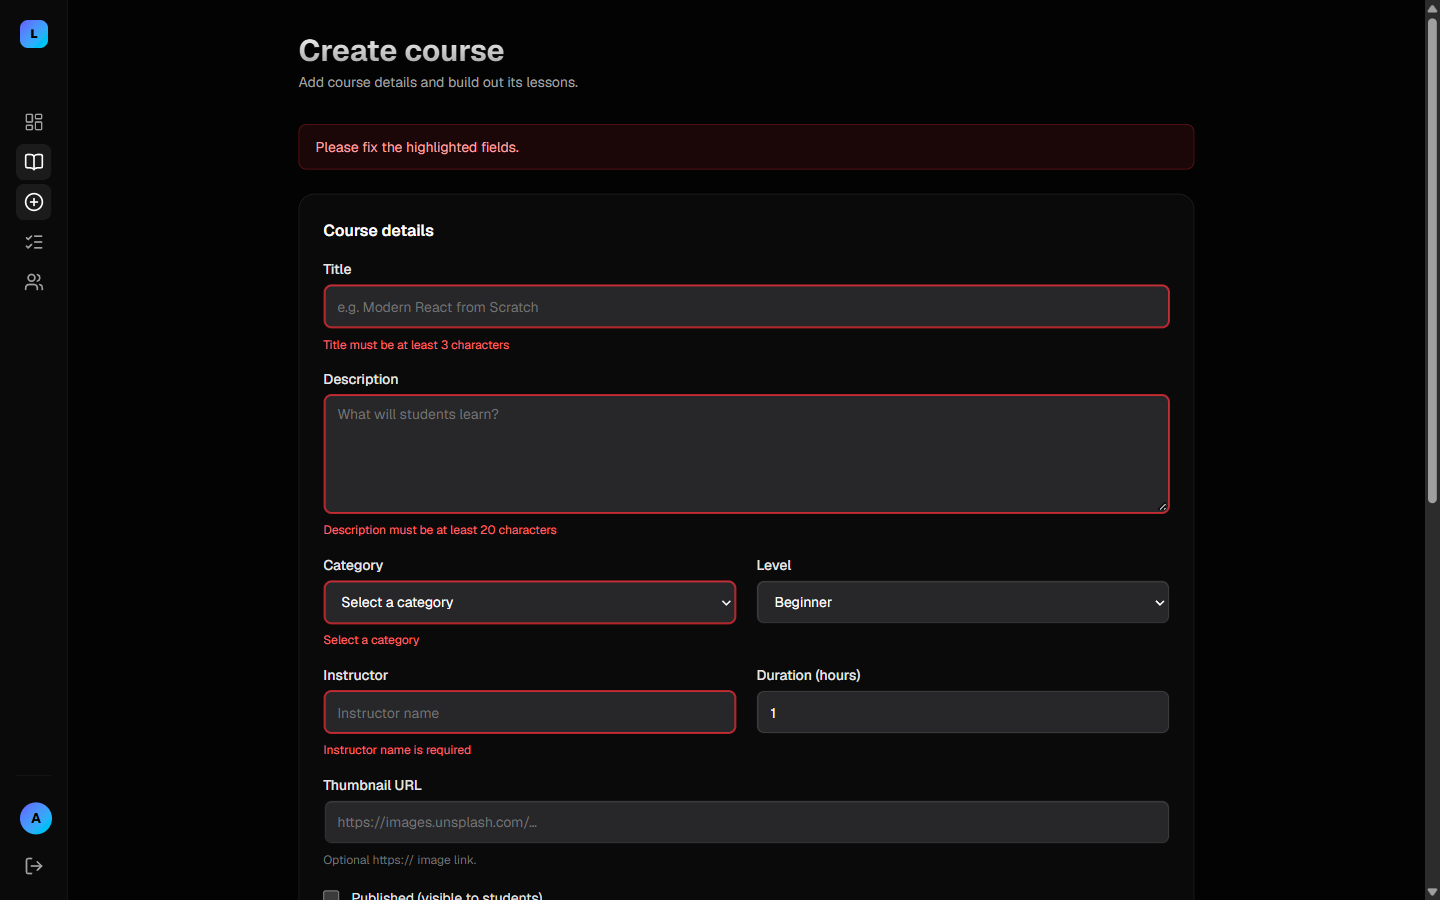
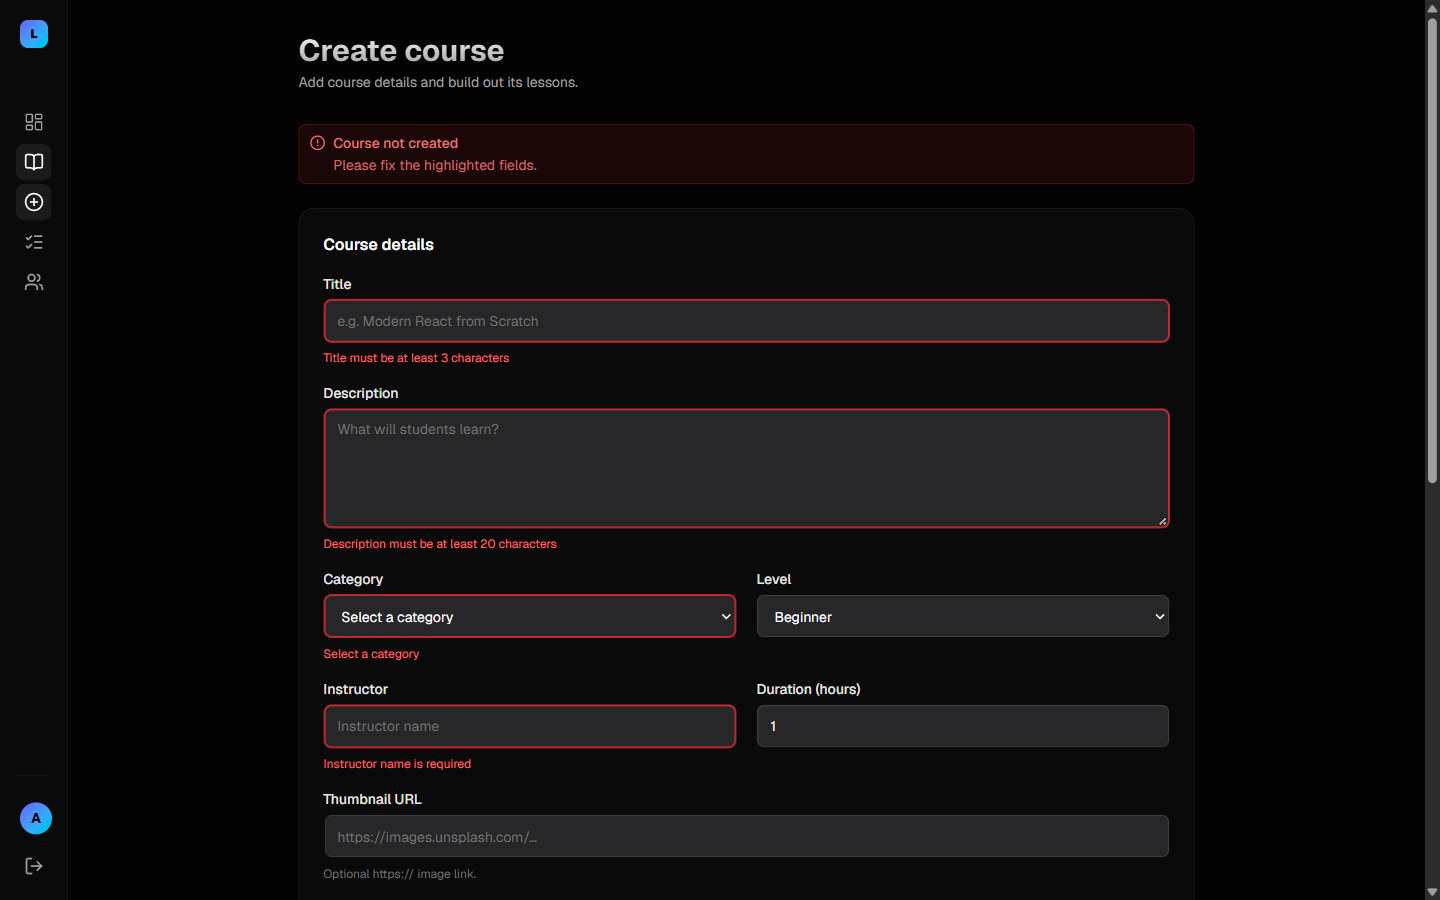
Use the shadcn/ui Alert component for error messages
- Add components/ui/alert.tsx (shadcn base-nova Alert, AlertTitle,
  AlertDescription, AlertAction) and components.json
- Add class-variance-authority, the dependency the component needs
- Add the semantic theme tokens it relies on (card, destructive, border,
  muted-foreground) to globals.css
- Replace the hand-rolled Alert with an ErrorAlert wrapper built on the
  shadcn component, with an icon and a context-specific title
- Retake the course form screenshot and add a login error screenshot

diff --git a/src/components/ui/alert.tsx b/src/components/ui/alert.tsx
@@ -1,0 +1,75 @@
+import * as React from "react"
+import { cva, type VariantProps } from "class-variance-authority"
+import { cn } from "@/lib/utils"
+
+const alertVariants = cva(
+  "group/alert relative grid w-full border-border gap-0.5 rounded-lg border px-2.5 py-2 text-left text-sm has-data-[slot=alert-action]:relative has-data-[slot=alert-action]:pr-18 has-[>svg]:grid-cols-[auto_1fr] has-[>svg]:gap-x-2 *:[svg]:row-span-2 *:[svg]:translate-y-0.5 *:[svg]:text-current *:[svg:not([class*='size-'])]:size-4",
+  {
+    variants: {
+      variant: {
+        default: "bg-card text-card-foreground",
+        destructive:
+          "bg-card text-destructive *:data-[slot=alert-description]:text-destructive/90 *:[svg]:text-current",
+      },
+    },
+    defaultVariants: {
+      variant: "default",
+    },
+  }
+)
+
+function Alert({
+  className,
+  variant,
+  ...props
+}: React.ComponentProps<"div"> & VariantProps<typeof alertVariants>) {
+  return (
+    <div
+      data-slot="alert"
+      role="alert"
+      className={cn(alertVariants({ variant }), className)}
+      {...props}
+    />
+  )
+}
+
+function AlertTitle({ className, ...props }: React.ComponentProps<"div">) {
+  return (
+    <div
+      data-slot="alert-title"
+      className={cn(
+        "font-medium group-has-[>svg]/alert:col-start-2 [&_a]:underline [&_a]:underline-offset-3 [&_a]:hover:text-foreground",
+        className
+      )}
+      {...props}
+    />
+  )
+}
+
+function AlertDescription({
+  className,
+  ...props
+}: React.ComponentProps<"div">) {
+  return (
+    <div
+      data-slot="alert-description"
+      className={cn(
+        "text-sm text-balance text-muted-foreground md:text-pretty [&_a]:underline [&_a]:underline-offset-3 [&_a]:hover:text-foreground [&_p:not(:last-child)]:mb-4",
+        className
+      )}
+      {...props}
+    />
+  )
+}
+
+function AlertAction({ className, ...props }: React.ComponentProps<"div">) {
+  return (
+    <div
+      data-slot="alert-action"
+      className={cn("absolute top-2 right-2", className)}
+      {...props}
+    />
+  )
+}
+
+export { Alert, AlertTitle, AlertDescription, AlertAction }

diff --git a/src/components/course-form.tsx b/src/components/course-form.tsx
@@ -6,7 +6,7 @@ import { useState, type FormEvent } from "react";
 import { useToast } from "@/components/toast";
 import { Button, ButtonLink } from "@/components/ui/button";
 import { Field, Input, Select, Textarea } from "@/components/ui/input";
-import { Alert, Card } from "@/components/ui/misc";
+import { ErrorAlert, Card } from "@/components/ui/misc";
 import { api, ApiClientError, type CourseDetail } from "@/lib/client";
 import { capitalize, COURSE_CATEGORIES, COURSE_LEVELS } from "@/lib/utils";
 import { courseInputSchema, fieldErrors } from "@/lib/validations";
@@ -149,7 +149,7 @@ export function CourseForm({ course }: { course?: CourseDetail }) {
 
   return (
     <form onSubmit={onSubmit} noValidate className="space-y-6">
-      {formError && <Alert>{formError}</Alert>}
+      {formError && <ErrorAlert title={course ? "Course not updated" : "Course not created"}>{formError}</ErrorAlert>}
 
       <Card className="space-y-5 p-6">
         <h2 className="font-semibold text-white">Course details</h2>
@@ -219,7 +219,7 @@ export function CourseForm({ course }: { course?: CourseDetail }) {
             <Plus className="size-4" /> Add lesson
           </Button>
         </div>
-        {err("lessons") && <Alert>{err("lessons")}</Alert>}
+        {err("lessons") && <ErrorAlert title="Lessons need attention">{err("lessons")}</ErrorAlert>}
 
         {state.lessons.map((lesson, i) => (
           <div key={lesson.key} className="space-y-4 rounded-xl border border-white/[0.08] bg-black/40 p-4">

diff --git a/src/components/ui/misc.tsx b/src/components/ui/misc.tsx
@@ -1,5 +1,7 @@
+import { AlertCircle } from "lucide-react";
 import type { ReactNode } from "react";
 import { cn } from "@/lib/utils";
+import { Alert, AlertDescription, AlertTitle } from "./alert";
 
 export function Badge({
   children,
@@ -117,18 +119,13 @@ export function PageHeader({
   );
 }
 
-export function Alert({ children, tone = "error" }: { children: ReactNode; tone?: "error" | "success" }) {
+/** Error callout built on the shadcn/ui Alert (destructive variant, tinted for the dark theme). */
+export function ErrorAlert({ title = "Something went wrong", children }: { title?: string; children: ReactNode }) {
   return (
-    <div
-      role="alert"
-      className={cn(
-        "rounded-lg border px-4 py-3 text-sm",
-        tone === "error"
-          ? "border-red-500/30 bg-red-500/10 text-red-300"
-          : "border-emerald-500/30 bg-emerald-500/10 text-emerald-300",
-      )}
-    >
-      {children}
-    </div>
+    <Alert variant="destructive" className="border-red-500/30 bg-red-500/10">
+      <AlertCircle />
+      <AlertTitle>{title}</AlertTitle>
+      <AlertDescription className="text-red-200/90">{children}</AlertDescription>
+    </Alert>
   );
 }

diff --git a/src/components/auth-form.tsx b/src/components/auth-form.tsx
@@ -5,7 +5,7 @@ import { useRouter } from "next/navigation";
 import { useState, type FormEvent } from "react";
 import { Button } from "@/components/ui/button";
 import { Field, Input } from "@/components/ui/input";
-import { Alert } from "@/components/ui/misc";
+import { ErrorAlert } from "@/components/ui/misc";
 import { api, ApiClientError } from "@/lib/client";
 import { fieldErrors, loginSchema, registerSchema } from "@/lib/validations";
 
@@ -101,7 +101,7 @@ export function AuthForm({ mode, next }: { mode: Mode; next?: string }) {
       <p className="mt-2 text-sm text-neutral-400">{copy[mode].subtitle}</p>
 
       <form className="my-8 space-y-4" onSubmit={onSubmit} noValidate>
-        {formError && <Alert>{formError}</Alert>}
+        {formError && <ErrorAlert title={mode === "login" ? "Could not log you in" : "Could not create your account"}>{formError}</ErrorAlert>}
         {fields.map((f) => (
           <Field key={f.name} label={f.label} htmlFor={f.name} error={touched[f.name] ? errors[f.name] : undefined} hint={f.hint}>
             <Input

diff --git a/src/app/admin/courses/page.tsx b/src/app/admin/courses/page.tsx
@@ -6,7 +6,7 @@ import { useState } from "react";
 import { CourseFilters, type CourseFilterValues } from "@/components/course-filters";
 import { useToast } from "@/components/toast";
 import { ButtonLink } from "@/components/ui/button";
-import { Alert, Badge, EmptyState, levelTone, PageHeader, Skeleton } from "@/components/ui/misc";
+import { ErrorAlert, Badge, EmptyState, levelTone, PageHeader, Skeleton } from "@/components/ui/misc";
 import { Pagination } from "@/components/ui/pagination";
 import { Table, Td, Th } from "@/components/ui/table";
 import { api, ApiClientError, toQuery, type CourseSummary, type Paginated } from "@/lib/client";
@@ -64,7 +64,7 @@ export default function AdminCoursesPage() {
       />
 
       <div className="mt-6">
-        {error && <Alert>{error}</Alert>}
+        {error && <ErrorAlert>{error}</ErrorAlert>}
         {loading && !data ? (
           <Skeleton className="h-96" />
         ) : data?.items.length === 0 ? (

diff --git a/src/app/student/page.tsx b/src/app/student/page.tsx
@@ -4,7 +4,7 @@ import { Award, BookOpen, Flame, TrendingUp } from "lucide-react";
 import Link from "next/link";
 import { EnrollmentCard } from "@/components/enrollment-card";
 import { ButtonLink } from "@/components/ui/button";
-import { Alert, Card, EmptyState, PageHeader, ProgressBar, Skeleton, StatCard } from "@/components/ui/misc";
+import { ErrorAlert, Card, EmptyState, PageHeader, ProgressBar, Skeleton, StatCard } from "@/components/ui/misc";
 import type { EnrollmentDto, Paginated } from "@/lib/client";
 import { useApi } from "@/lib/hooks";
 
@@ -22,7 +22,7 @@ export default function StudentDashboard() {
         description="Here's an overview of your learning progress."
         actions={<ButtonLink href="/courses">Browse courses</ButtonLink>}
       />
-      {error && <Alert>{error}</Alert>}
+      {error && <ErrorAlert>{error}</ErrorAlert>}
 
       <div className="grid grid-cols-2 gap-4 lg:grid-cols-4">
         {loading && !data ? (

diff --git a/src/app/student/learn/[id]/page.tsx b/src/app/student/learn/[id]/page.tsx
@@ -6,7 +6,7 @@ import { useParams, useRouter } from "next/navigation";
 import { useState } from "react";
 import { useToast } from "@/components/toast";
 import { Button, ButtonLink } from "@/components/ui/button";
-import { Alert, Badge, Card, ProgressBar, Skeleton } from "@/components/ui/misc";
+import { ErrorAlert, Badge, Card, ProgressBar, Skeleton } from "@/components/ui/misc";
 import { api, ApiClientError, type EnrollmentDetail } from "@/lib/client";
 import { useApi } from "@/lib/hooks";
 import { cn } from "@/lib/utils";
@@ -35,7 +35,7 @@ export default function LearnPage() {
   if (error || !data) {
     return (
       <div className="mx-auto max-w-xl space-y-4">
-        <Alert>{error ?? "Enrollment not found"}</Alert>
+        <ErrorAlert title="Could not open this course">{error ?? "Enrollment not found"}</ErrorAlert>
         <ButtonLink href="/student/courses" variant="secondary">Back to my courses</ButtonLink>
       </div>
     );

diff --git a/src/components/course-catalog.tsx b/src/components/course-catalog.tsx
@@ -4,7 +4,7 @@ import { usePathname, useRouter, useSearchParams } from "next/navigation";
 import { useEffect, useState } from "react";
 import { CourseCard } from "@/components/course-card";
 import { CourseFilters, type CourseFilterValues } from "@/components/course-filters";
-import { Alert, EmptyState, Skeleton } from "@/components/ui/misc";
+import { ErrorAlert, EmptyState, Skeleton } from "@/components/ui/misc";
 import { Pagination } from "@/components/ui/pagination";
 import { toQuery, type CourseSummary, type Paginated } from "@/lib/client";
 import { useApi, useDebounced } from "@/lib/hooks";
@@ -43,7 +43,7 @@ export function CourseCatalog() {
       />
 
       <div className="mt-8">
-        {error && <Alert>{error}</Alert>}
+        {error && <ErrorAlert>{error}</ErrorAlert>}
         {loading && !data ? (
           <div className="grid gap-6 sm:grid-cols-2 lg:grid-cols-3">
             {Array.from({ length: 6 }).map((_, i) => (

diff --git a/src/app/admin/enrollments/page.tsx b/src/app/admin/enrollments/page.tsx
@@ -4,7 +4,7 @@ import { Search, Trash2 } from "lucide-react";
 import { useState } from "react";
 import { useToast } from "@/components/toast";
 import { Input, Select } from "@/components/ui/input";
-import { Alert, Badge, EmptyState, PageHeader, ProgressBar, Skeleton } from "@/components/ui/misc";
+import { ErrorAlert, Badge, EmptyState, PageHeader, ProgressBar, Skeleton } from "@/components/ui/misc";
 import { Pagination } from "@/components/ui/pagination";
 import { Table, Td, Th } from "@/components/ui/table";
 import { api, ApiClientError, toQuery, type CourseSummary, type EnrollmentDto, type Paginated } from "@/lib/client";
@@ -70,7 +70,7 @@ export default function AdminEnrollmentsPage() {
         </div>
       </div>
 
-      {error && <Alert>{error}</Alert>}
+      {error && <ErrorAlert>{error}</ErrorAlert>}
       {loading && !data ? (
         <Skeleton className="h-96" />
       ) : data?.items.length === 0 ? (

diff --git a/src/app/student/courses/page.tsx b/src/app/student/courses/page.tsx
@@ -5,7 +5,7 @@ import { useState } from "react";
 import { EnrollmentCard } from "@/components/enrollment-card";
 import { ButtonLink } from "@/components/ui/button";
 import { Input } from "@/components/ui/input";
-import { Alert, EmptyState, PageHeader, Skeleton } from "@/components/ui/misc";
+import { ErrorAlert, EmptyState, PageHeader, Skeleton } from "@/components/ui/misc";
 import { toQuery, type EnrollmentDto, type Paginated } from "@/lib/client";
 import { useApi, useDebounced } from "@/lib/hooks";
 import { cn } from "@/lib/utils";
@@ -47,7 +47,7 @@ export default function MyCoursesPage() {
         </div>
       </div>
 
-      {error && <Alert>{error}</Alert>}
+      {error && <ErrorAlert>{error}</ErrorAlert>}
       {loading && !data ? (
         <div className="grid gap-4 sm:grid-cols-2 lg:grid-cols-3">
           {Array.from({ length: 3 }).map((_, i) => (

diff --git a/src/app/admin/users/page.tsx b/src/app/admin/users/page.tsx
@@ -4,7 +4,7 @@ import { Search, Trash2 } from "lucide-react";
 import { useState } from "react";
 import { useToast } from "@/components/toast";
 import { Input, Select } from "@/components/ui/input";
-import { Alert, EmptyState, PageHeader, Skeleton } from "@/components/ui/misc";
+import { ErrorAlert, EmptyState, PageHeader, Skeleton } from "@/components/ui/misc";
 import { Pagination } from "@/components/ui/pagination";
 import { Table, Td, Th } from "@/components/ui/table";
 import { api, ApiClientError, toQuery, type Paginated, type UserDto } from "@/lib/client";
@@ -69,7 +69,7 @@ export default function AdminUsersPage() {
         </div>
       </div>
 
-      {error && <Alert>{error}</Alert>}
+      {error && <ErrorAlert>{error}</ErrorAlert>}
       {loading && !data ? (
         <Skeleton className="h-96" />
       ) : data?.items.length === 0 ? (

diff --git a/src/app/admin/page.tsx b/src/app/admin/page.tsx
@@ -3,7 +3,7 @@
 import { Award, BookOpen, GraduationCap, ListChecks, Plus } from "lucide-react";
 import Link from "next/link";
 import { ButtonLink } from "@/components/ui/button";
-import { Alert, Badge, Card, PageHeader, ProgressBar, Skeleton, StatCard } from "@/components/ui/misc";
+import { ErrorAlert, Badge, Card, PageHeader, ProgressBar, Skeleton, StatCard } from "@/components/ui/misc";
 import { Table, Td, Th } from "@/components/ui/table";
 import { useApi } from "@/lib/hooks";
 import { formatDate } from "@/lib/utils";
@@ -46,7 +46,7 @@ export default function AdminOverview() {
           </ButtonLink>
         }
       />
-      {error && <Alert>{error}</Alert>}
+      {error && <ErrorAlert>{error}</ErrorAlert>}
 
       <div className="grid grid-cols-2 gap-4 lg:grid-cols-4">
         {loading || !data ? (
